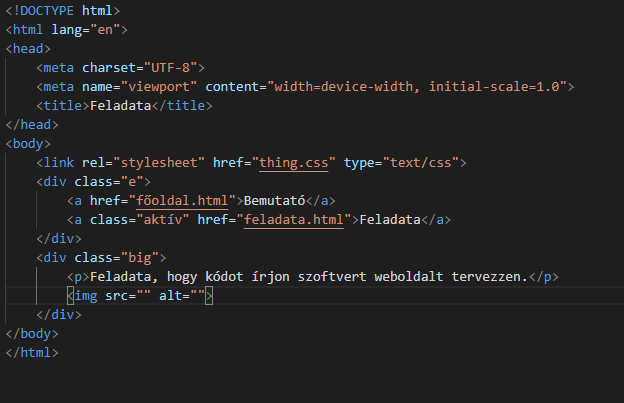
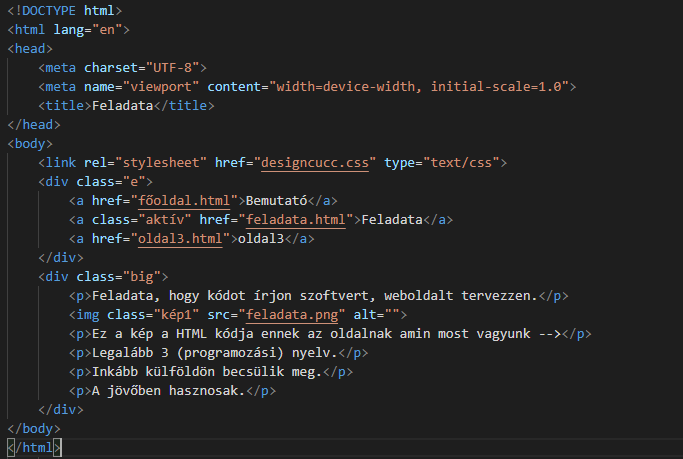
main

Changed region(s): [[0.0, 0.0, 0.9135, 1.0]]

diff --git a/feladata.html b/feladata.html
@@ -10,14 +10,33 @@
     <div class="e">
         <a href="főoldal.html">Bemutató</a>
         <a class="aktív" href="feladata.html">Feladata</a>
+        <a href="oldal3.html">Utolsó oldal</a>
     </div>
     <div class="big">
         <p>Feladata, hogy kódot írjon szoftvert, weboldalt tervezzen.</p>
         <img class="kép1" src="feladata.png" alt="">
         <p>Ez a kép a HTML kódja ennek az oldalnak amin most vagyunk --></p>
         <p>Legalább 3 (programozási) nyelv.</p>
-        <p>eeeeeeeeeee</p>
-        <p>ee</p>
+        <p>Inkább külföldön becsülik meg.</p>
+        <p>A jövőben hasznosak leszenek a programozók.</p>
+        <br>
+        <br>
+        <br>
+        <br>
+        <br>
+        <br>
+        <br>
+        <br>
+        <br>
+        <br>
+        <br>
+        <br>
+        <br>
+        <br>
     </div>
+        <p class="cssk">CSS kód:</p>
+        <img class="csskép" src="css1.png" alt=""> <br>
+        <img class="csskép"  src="css2.png" alt=""> <br>
+        <img class="csskép" src="css3.png" alt="">
 </body>
 </html>

diff --git a/oldal3.html b/oldal3.html
@@ -1,0 +1,31 @@
+<!DOCTYPE html>
+<html lang="en">
+<head>
+    <meta charset="UTF-8">
+    <meta name="viewport" content="width=device-width, initial-scale=1.0">
+    <title>U</title>
+</head>
+<body>
+    <link rel="stylesheet" href="designcucc.css" type="text/css">
+    <div class="e">
+        <a href="főoldal.html">Bemutató</a>
+        <a href="feladata.html">Feladata</a>
+        <a class="aktív" href="oldal3.html">Utolsó oldal</a>
+    </div>
+    <div class="big">
+        <h1>Több munka fajta:</h1>
+        <ul>
+            <li>Szerverkarbantartó</li>
+            <li>AI programok</li>
+            <li>Sima programozó</li>
+        </ul>
+
+        <br>
+
+        <h1>Fizetés:</h1>
+        <p>Kezdő :1 271 900FT/H</p>
+        <p>Átlagos :1 625 564FT/H</p>
+        <p>Szakértő :2 162 230FT/H</p>
+    </div>
+</body>
+</html>

diff --git a/főoldal.html b/főoldal.html
@@ -10,13 +10,14 @@
     <div class="e">
         <a class="aktív" href="főoldal.html">Bemutató</a>
         <a href="feladata.html">Feladata</a>
+        <a href="oldal3.html">Utolsó oldal</a>
     </div>
 
     <h1>Programozás/Szoftverfejlesztés:</h1>
     <div class="listák">
     <ul class="lista">
         <li>Egy foglalkozás.</li>
-        <li>Többfajta programozási nyelv is létezik</li>
+        <li>Többfajta programozási nyelv is létezik.</li>
         <h2>pl.:</h2>
     </ul>
         <ul class="lista2">

diff --git a/designcucc.css b/designcucc.css
@@ -89,3 +89,11 @@ body{
     position: absolute;
     left: 900px;
   }
+
+  .csskép{
+    padding: -1px;
+  }
+
+  .cssk {
+    font-size: 1cm;
+  }
